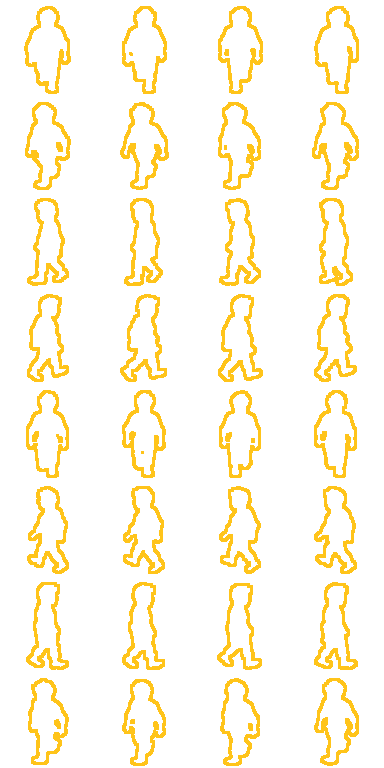
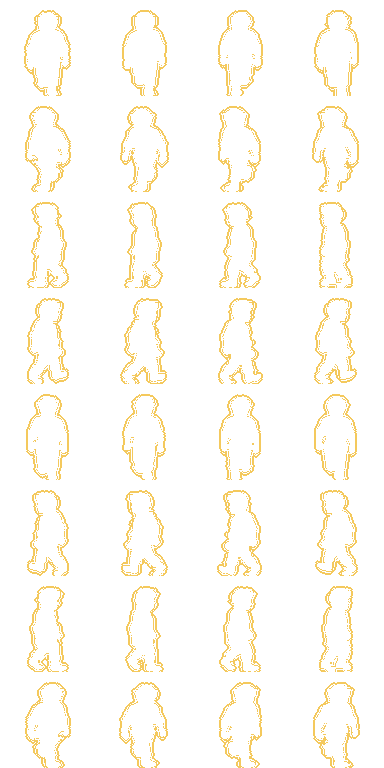
commit

diff --git a/README_SUBSTITUICAO.md b/README_SUBSTITUICAO.md
@@ -1,17 +1,17 @@
-# Round 67 v11.4 — correção de movimento inicial
+# Round 67 v11.5 — arquivos alterados
 
-Substitua estes arquivos no projeto, preservando os mesmos caminhos:
+Copie o conteúdo deste pacote sobre a raiz do projeto, preservando a estrutura de pastas e substituindo os arquivos de mesmo nome.
 
-- `src/entities/Player.ts`
-- `src/scenes/AetherCityScene.ts`
-- `validate-project.mjs`
+Esta revisão contém:
 
-Esta revisão impede que o corpo Arcade recalcule `x/y` depois do movimento
-isométrico, usa uma máscara corporal estável para colisões e atualiza a direção
-antes de testar o primeiro passo. O novo jogo também começa voltado para o
-interior da cidade pelo Portão Sul.
+- movimento do jogador em oito direções com posição isométrica autoritativa;
+- colisão pelos últimos 14 pixels opacos dos pés, com escape e deslizamento ao tocar obstáculos;
+- oclusão que mantém cenário opaco e mostra somente o contorno dourado do jogador;
+- 24 folhas visuais e 24 folhas de contorno alinhadas ao chão e com direções espelhadas corretamente;
+- HUD nativo `1320×154` com dois consumíveis, oito habilidades e quatro comandos ilustrados;
+- preload, documentação e auditoria consolidados.
 
-Depois da substituição, execute:
+Depois da substituição, execute na raiz do projeto:
 
 ```bash
 npm install
@@ -20,3 +20,4 @@ npm run validate
 npm run build
 ```
 
+O projeto completo e este pacote de substituição não incluem `dist/`, `node_modules/` ou arquivos `VISUAL_QA`.
